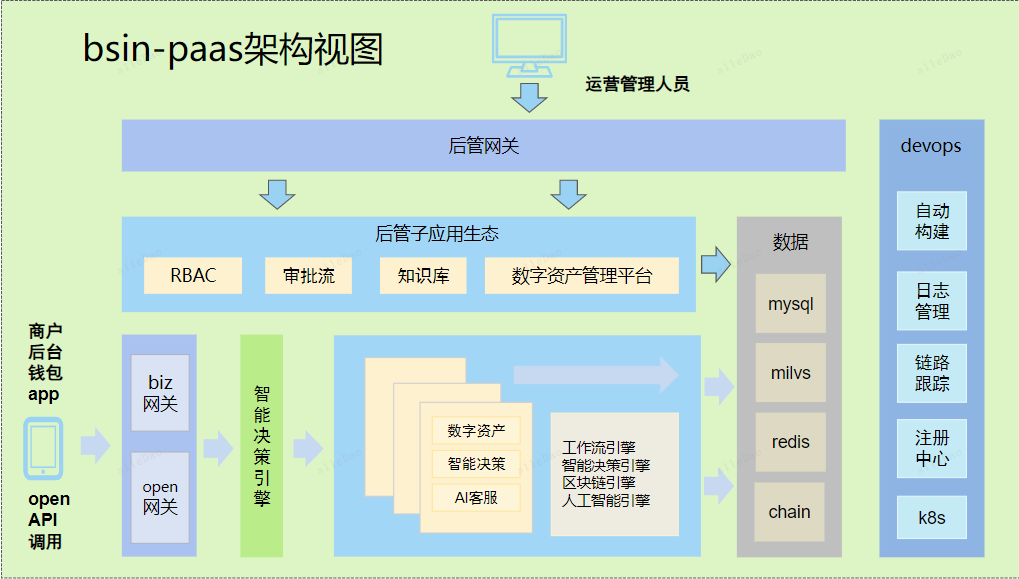
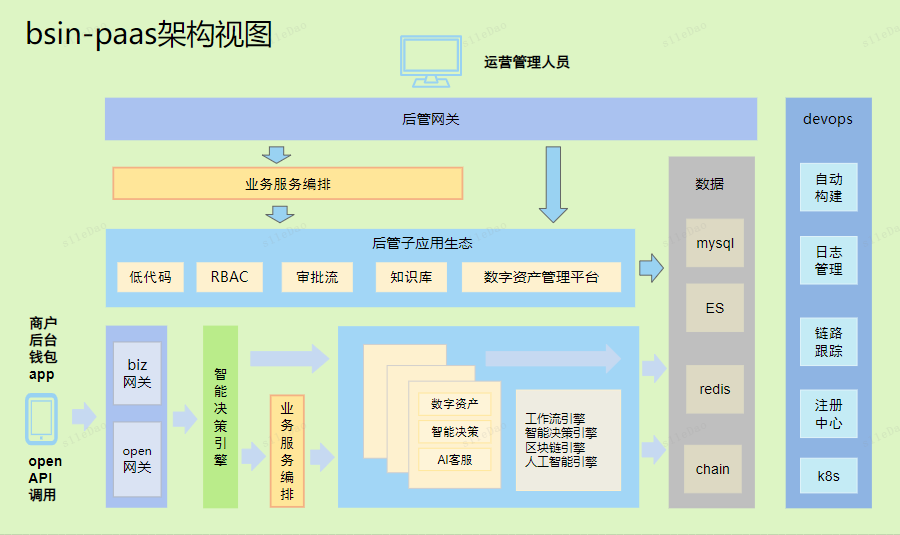
doc():  update 架构设计图

diff --git a/README.md b/README.md
@@ -37,13 +37,16 @@ https://www.bilibili.com/video/BV1VM4y1a7PF/?vd_source=360ae092de70c0b6c577d1d26
 ## 平台定位
 提供daPaaS层的一站式企业级技术解决方案，帮助企业快速实现数字商业创新，完成数字化转型。
 
-![avatar](./doc/images/sys/bsin-paas定位.png)
+![avatar](./doc/images/architecture/bsin-paas定位.png)
 
 ## 平台总架构设计
 ![avatar](./doc/images/architecture/平台总架构设计.png)
 
 ## 逻辑架构示图
 ![avatar](./doc/images/architecture/架构设计.png)
+
+## 系统业务角色定义
+![avatar](./doc/images/architecture/bizRole.jpg)
 
 ## 应用业务流程视图
 ![avatar](./doc/images/sys/应用业务流程视图.png)
